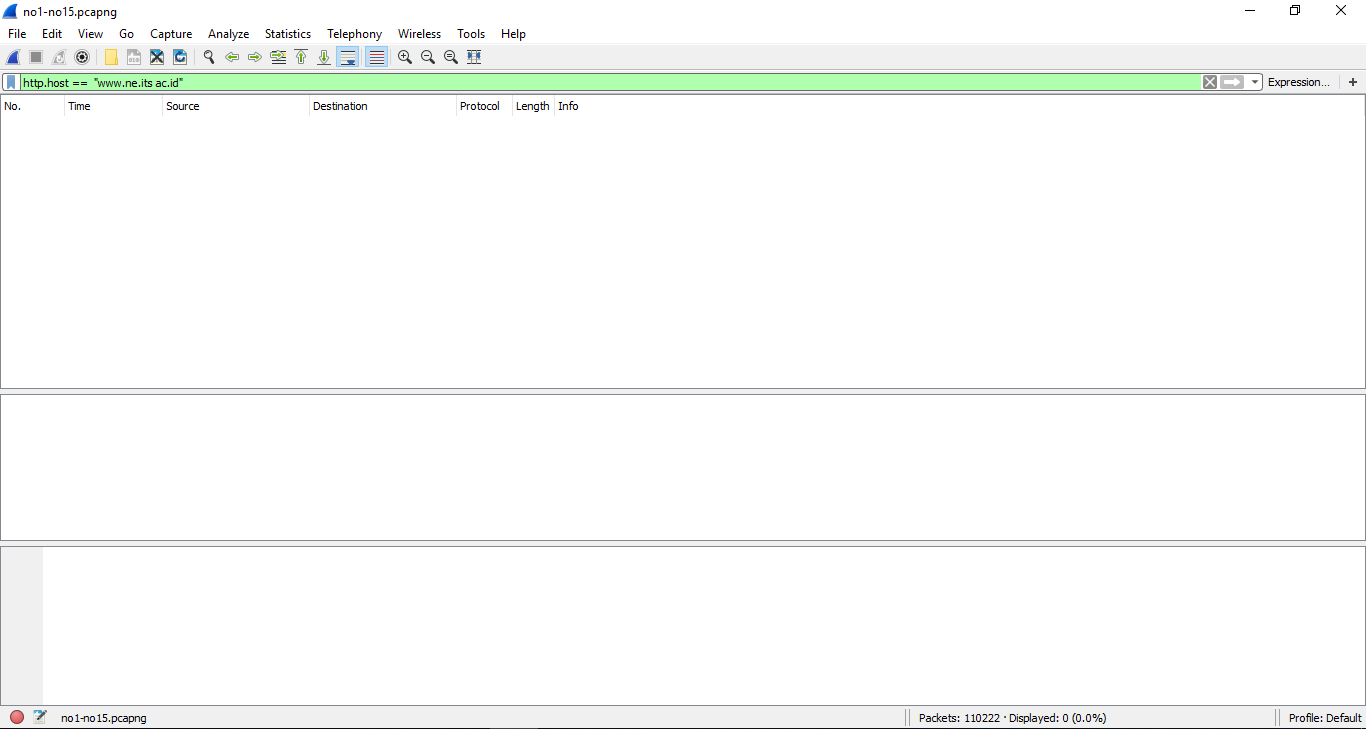
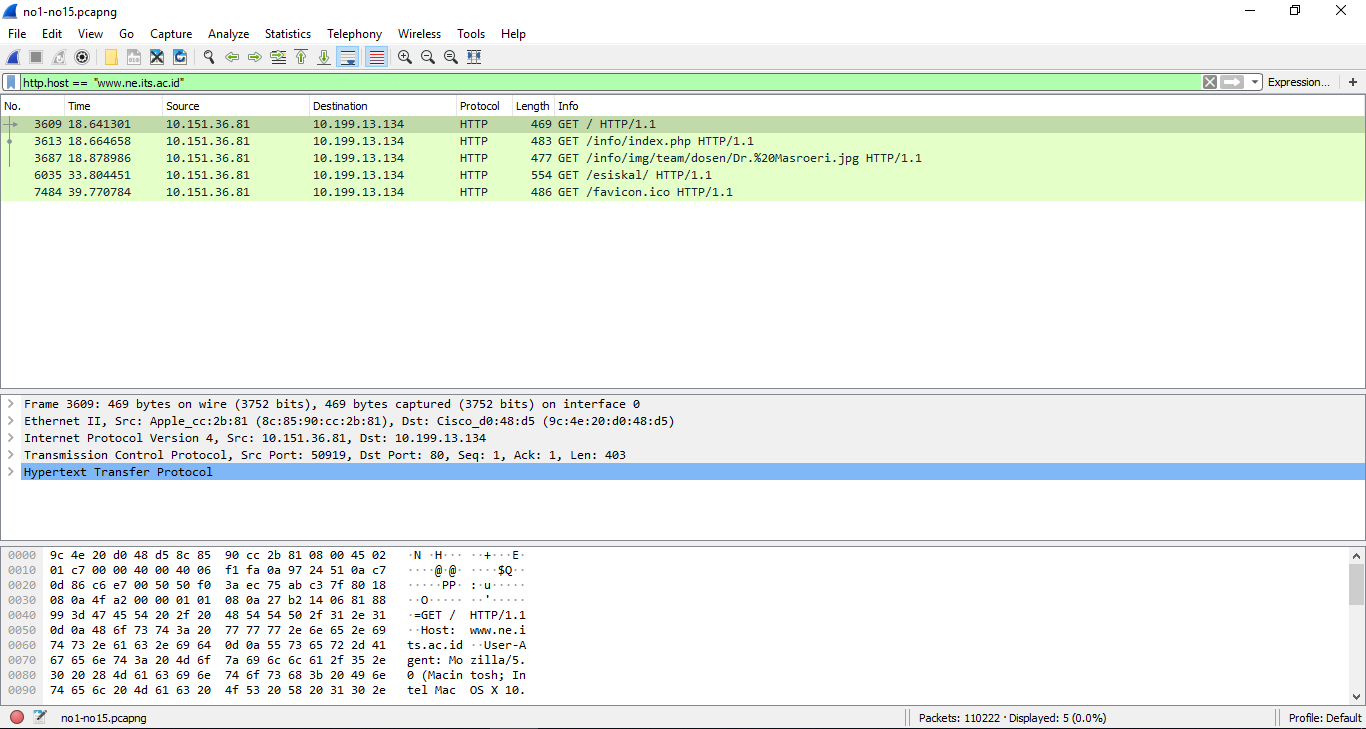
Update

diff --git a/README.md b/README.md
@@ -121,10 +121,32 @@ Kemudian kita menjawab sesuai perintah soal menggunakan *Display Filter*.
 	
 	**Jawab**:
 
+	- Filter menggunakan `http.host ==  "www.ne.its.ac.id"`. Hasilnya seperti nomor 1
+
+	- Kemudian langkah seperti nomor 3, klik kanan pada salah satu paket. Pilih `Follow` kemudian `HTTP Stream`. 
+
+	![Membuka HTTP Stream](images/display6-1.png)
+
+	- Cari `server` pada `find`. Hasilnya:
+
+	![Melihat server](images/display6-2.png)
+
 
 7.  Sebutkan versi PHP dan yang digunakan pada "riset.ajk.if.its.ac.id"
 	
 	**Jawab**:
+
+	- Sama seperti nomor 3 dan nomor 6, pertama filter. Filter dengan `http.host == "riset.ajk.if.its.ac.id"`
+
+	![Hasil filter](images/display7-1.png)	
+
+	- Klik kanan pada salah satu paket. Pilih `Follow` kemudian `HTTP Stream`. 
+
+	![Membuka HTTP Stream](images/display7-2.png)
+
+	- Cari `PHP` pada `find`. Hasilnya:
+
+	![Melihat versi PHP](images/display7-3.png)
 
 
 8.  Filter pada wireshark kalian sehingga menampilkan hasil ping
@@ -192,3 +214,32 @@ Kemudian kita menjawab sesuai perintah soal menggunakan *Display Filter*.
 
 	**Jawab**:
 
+	Mencari dengan menggunakan clue yang diberikan.
+
+	- Cari dengan `Find a packet`, seperti pada gambar. Klik
+
+	![Find a packet](images/display15-1.png)
+
+	- Pada lingkaran merah di gambar ini ganti menjadi `Hex velue`. Lalu masukkan clue tadi. Klik `Find`
+
+	![Hex value](images/display15-2.png)
+
+	- Maka akan ada paket yang diblok hitam, seperti pada gambar
+
+	![Hasil find](images/display15-3.png)
+
+	- Klik kanan pada paket tersebut. Pilih `Follow` kemudia `TCP Stream`. Hasilnya
+
+	![TCP Stream](images/display15-4.png)
+
+	- Ganti lingkaran merah menjadi `RAW`, seperti pada gambar.
+
+	![Ubah menjadi raw](images/display15-6.png)
+
+	- Save as seperti dibawah ini
+
+	![Ubah menjadi raw](images/display15-5.png)	
+
+	- Hasil akhirnya
+
+	![Hasil akhir](images/display15-7.png)
